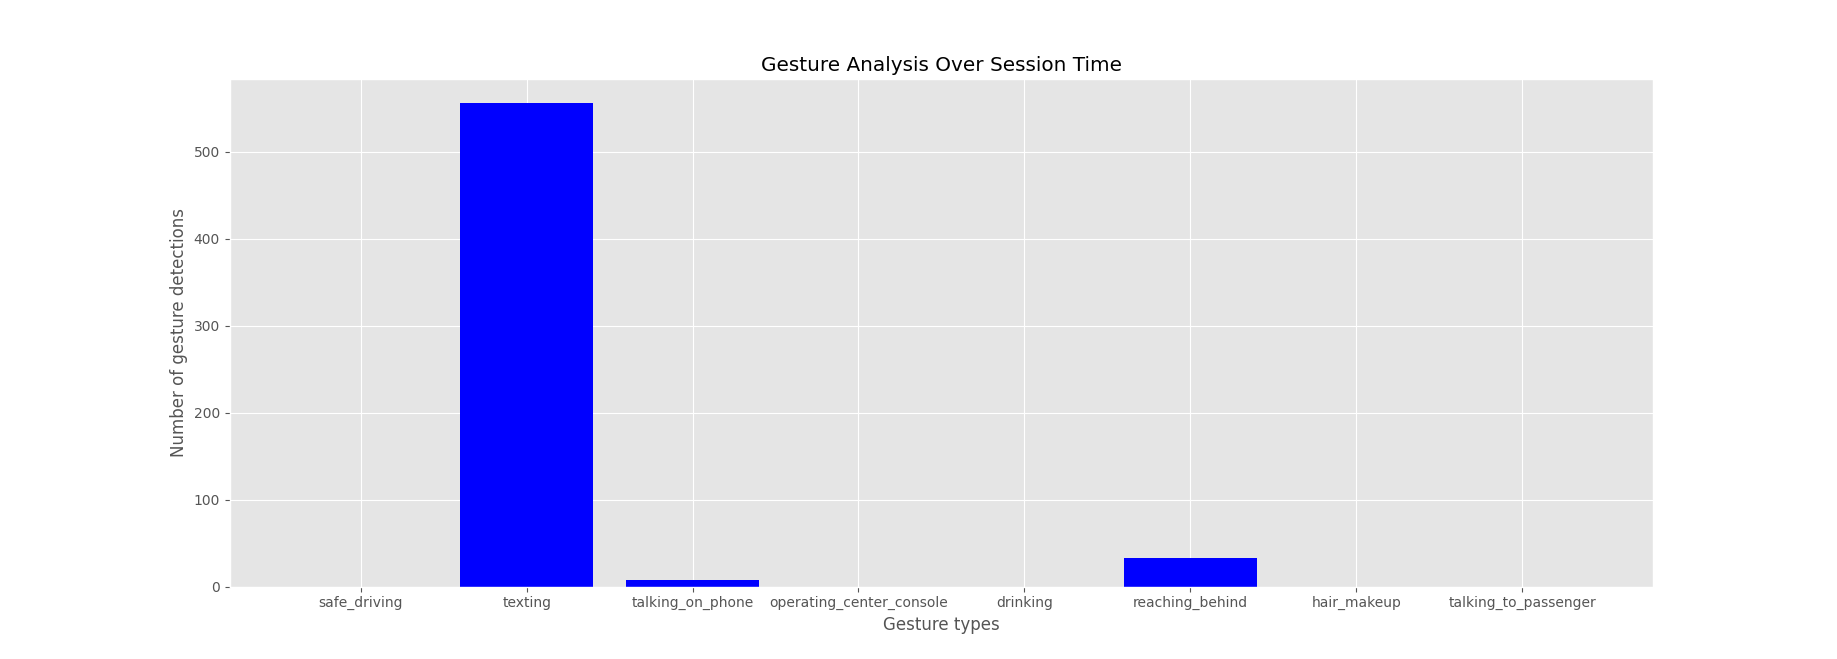
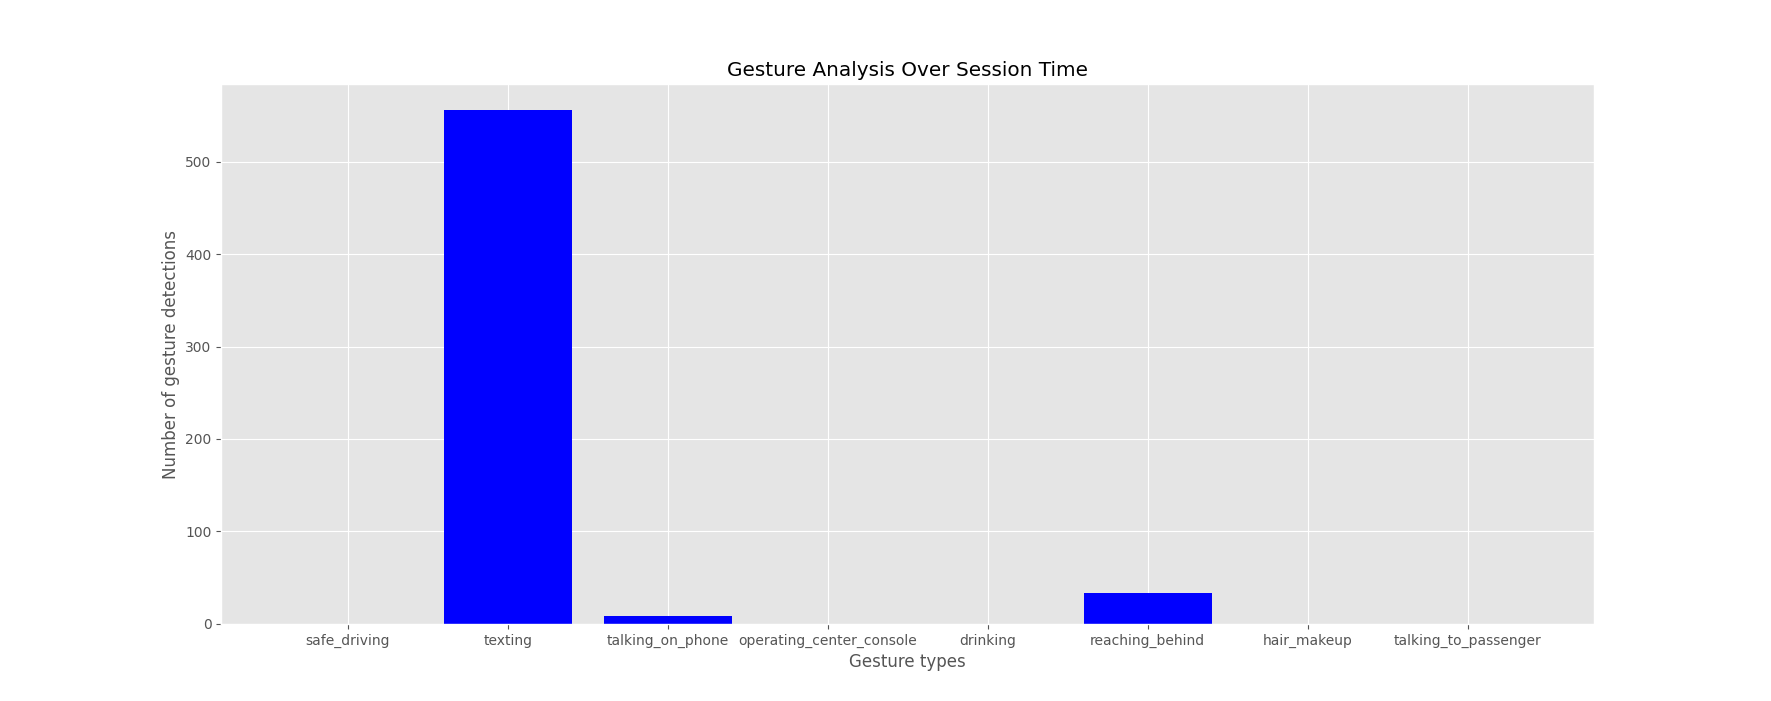
Updated gesture recognition data formatting

diff --git a/gesture_detection/gesture_recognition.py b/gesture_detection/gesture_recognition.py
@@ -105,16 +105,40 @@ data_dict = {
     "session_date": session_date,
     "gesture_data": {
         "timeline": [],
-        "development": {
-            "safe_driving": [],
-            "texting": [],
-            "talking_on_phone": [],
-            "operating_center_console": [],
-            "drinking": [],
-            "reaching_behind": [],
-            "hair_makeup": [],
-            "talking_to_passenger": []
-        }
+        "development": [
+            {
+                "name": "safe_driving",
+                "data": []
+            },
+            {
+                "name": "texting",
+                "data": []
+            },
+            {
+                "name": "talking_on_phone",
+                "data": []
+            },
+            {
+                "name": "operating_center_console",
+                "data": []
+            },
+            {
+                "name": "drinking",
+                "data": []
+            },
+            {
+                "name": "reaching_behind",
+                "data": []
+            },
+            {
+                "name": "hair_makeup",
+                "data": []
+            },
+            {
+                "name": "talking_to_passenger",
+                "data": []
+            }
+        ]
     }
 }
 
@@ -177,11 +201,11 @@ while True:
                 f"Detected Gesture: {label}", (0, 25), cv2.FONT_HERSHEY_SIMPLEX, 1,
                 (0, 255, 0), 2)
     # Add the detected gesture into the timeline.
-    for gesture_type in classes:
-        if gesture_type == label:
-            data_dict["gesture_data"]["development"][f"{label}"].append(1)
+    for i, gesture_item in enumerate(data_dict["gesture_data"]["development"]):
+        if data_dict["gesture_data"]["development"][i]["name"] == label:
+            data_dict["gesture_data"]["development"][i]["data"].append(1)
         else:
-            data_dict["gesture_data"]["development"][f"{gesture_type}"].append(0)
+            data_dict["gesture_data"]["development"][i]["data"].append(0)
 
     cv2.imshow('Gesture Analysis', test_img)
     key = cv2.waitKey(1) & 0xFF
@@ -197,10 +221,10 @@ intervals_total = (current_frame / (frame_rate*capture_interval))
 print(f"total captured frames: {current_frame}")
 print(f"total captured intervals: {intervals_total}")
 for i, item in enumerate(data_dict["gesture_data"]["development"]):
-    print(f"{item} total data points: {len(data_dict['gesture_data']['development'][item])}")
+    print(f"{data_dict['gesture_data']['development'][i]['name']} total data points: {len(data_dict['gesture_data']['development'][i]['data'])}")
 
-for gesture_type in classes:
-    print(f"""{gesture_type} detections: {data_dict['gesture_data']['development'][f'{gesture_type}'].count(1)}""")
+for i, item in enumerate(data_dict["gesture_data"]["development"]):
+    print(f"""{data_dict['gesture_data']['development'][i]['name']} detections: {data_dict['gesture_data']['development'][i]['data'].count(1)}""")
 
 
 # Record in JSON file the data captured in intervals so there aren't too many data points per minute.
@@ -209,9 +233,9 @@ for gesture_type in classes:
 for i in range(current_frame):
     if i % (frame_rate*capture_interval) == 0:
         added_data = False
-        for gesture_type in classes:
-            if data_dict['gesture_data']['development'][f'{gesture_type}'][i] == 1:
-                data_dict['gesture_data']['timeline'].append(classes.index(gesture_type))
+        for x, item in enumerate(data_dict["gesture_data"]["development"]):
+            if data_dict['gesture_data']['development'][x]['data'][i] == 1:
+                data_dict['gesture_data']['timeline'].append(classes.index(data_dict['gesture_data']['development'][x]['name']))
                 added_data = True
         if not added_data:
             data_dict['gesture_data']['timeline'].append(-1)
@@ -232,8 +256,8 @@ else:
 
 class_counts = [i for i, _ in enumerate(classes)]
 gesture_counts = []
-for gesture_type in classes:
-    gesture_counts.append(data_dict['gesture_data']['development'][f'{gesture_type}'].count(1))
+for i, item in enumerate(data_dict["gesture_data"]["development"]):
+    gesture_counts.append(data_dict['gesture_data']['development'][i]['data'].count(1))
 
 plt.style.use('ggplot')
 plt.bar(class_counts, gesture_counts, color='blue')
